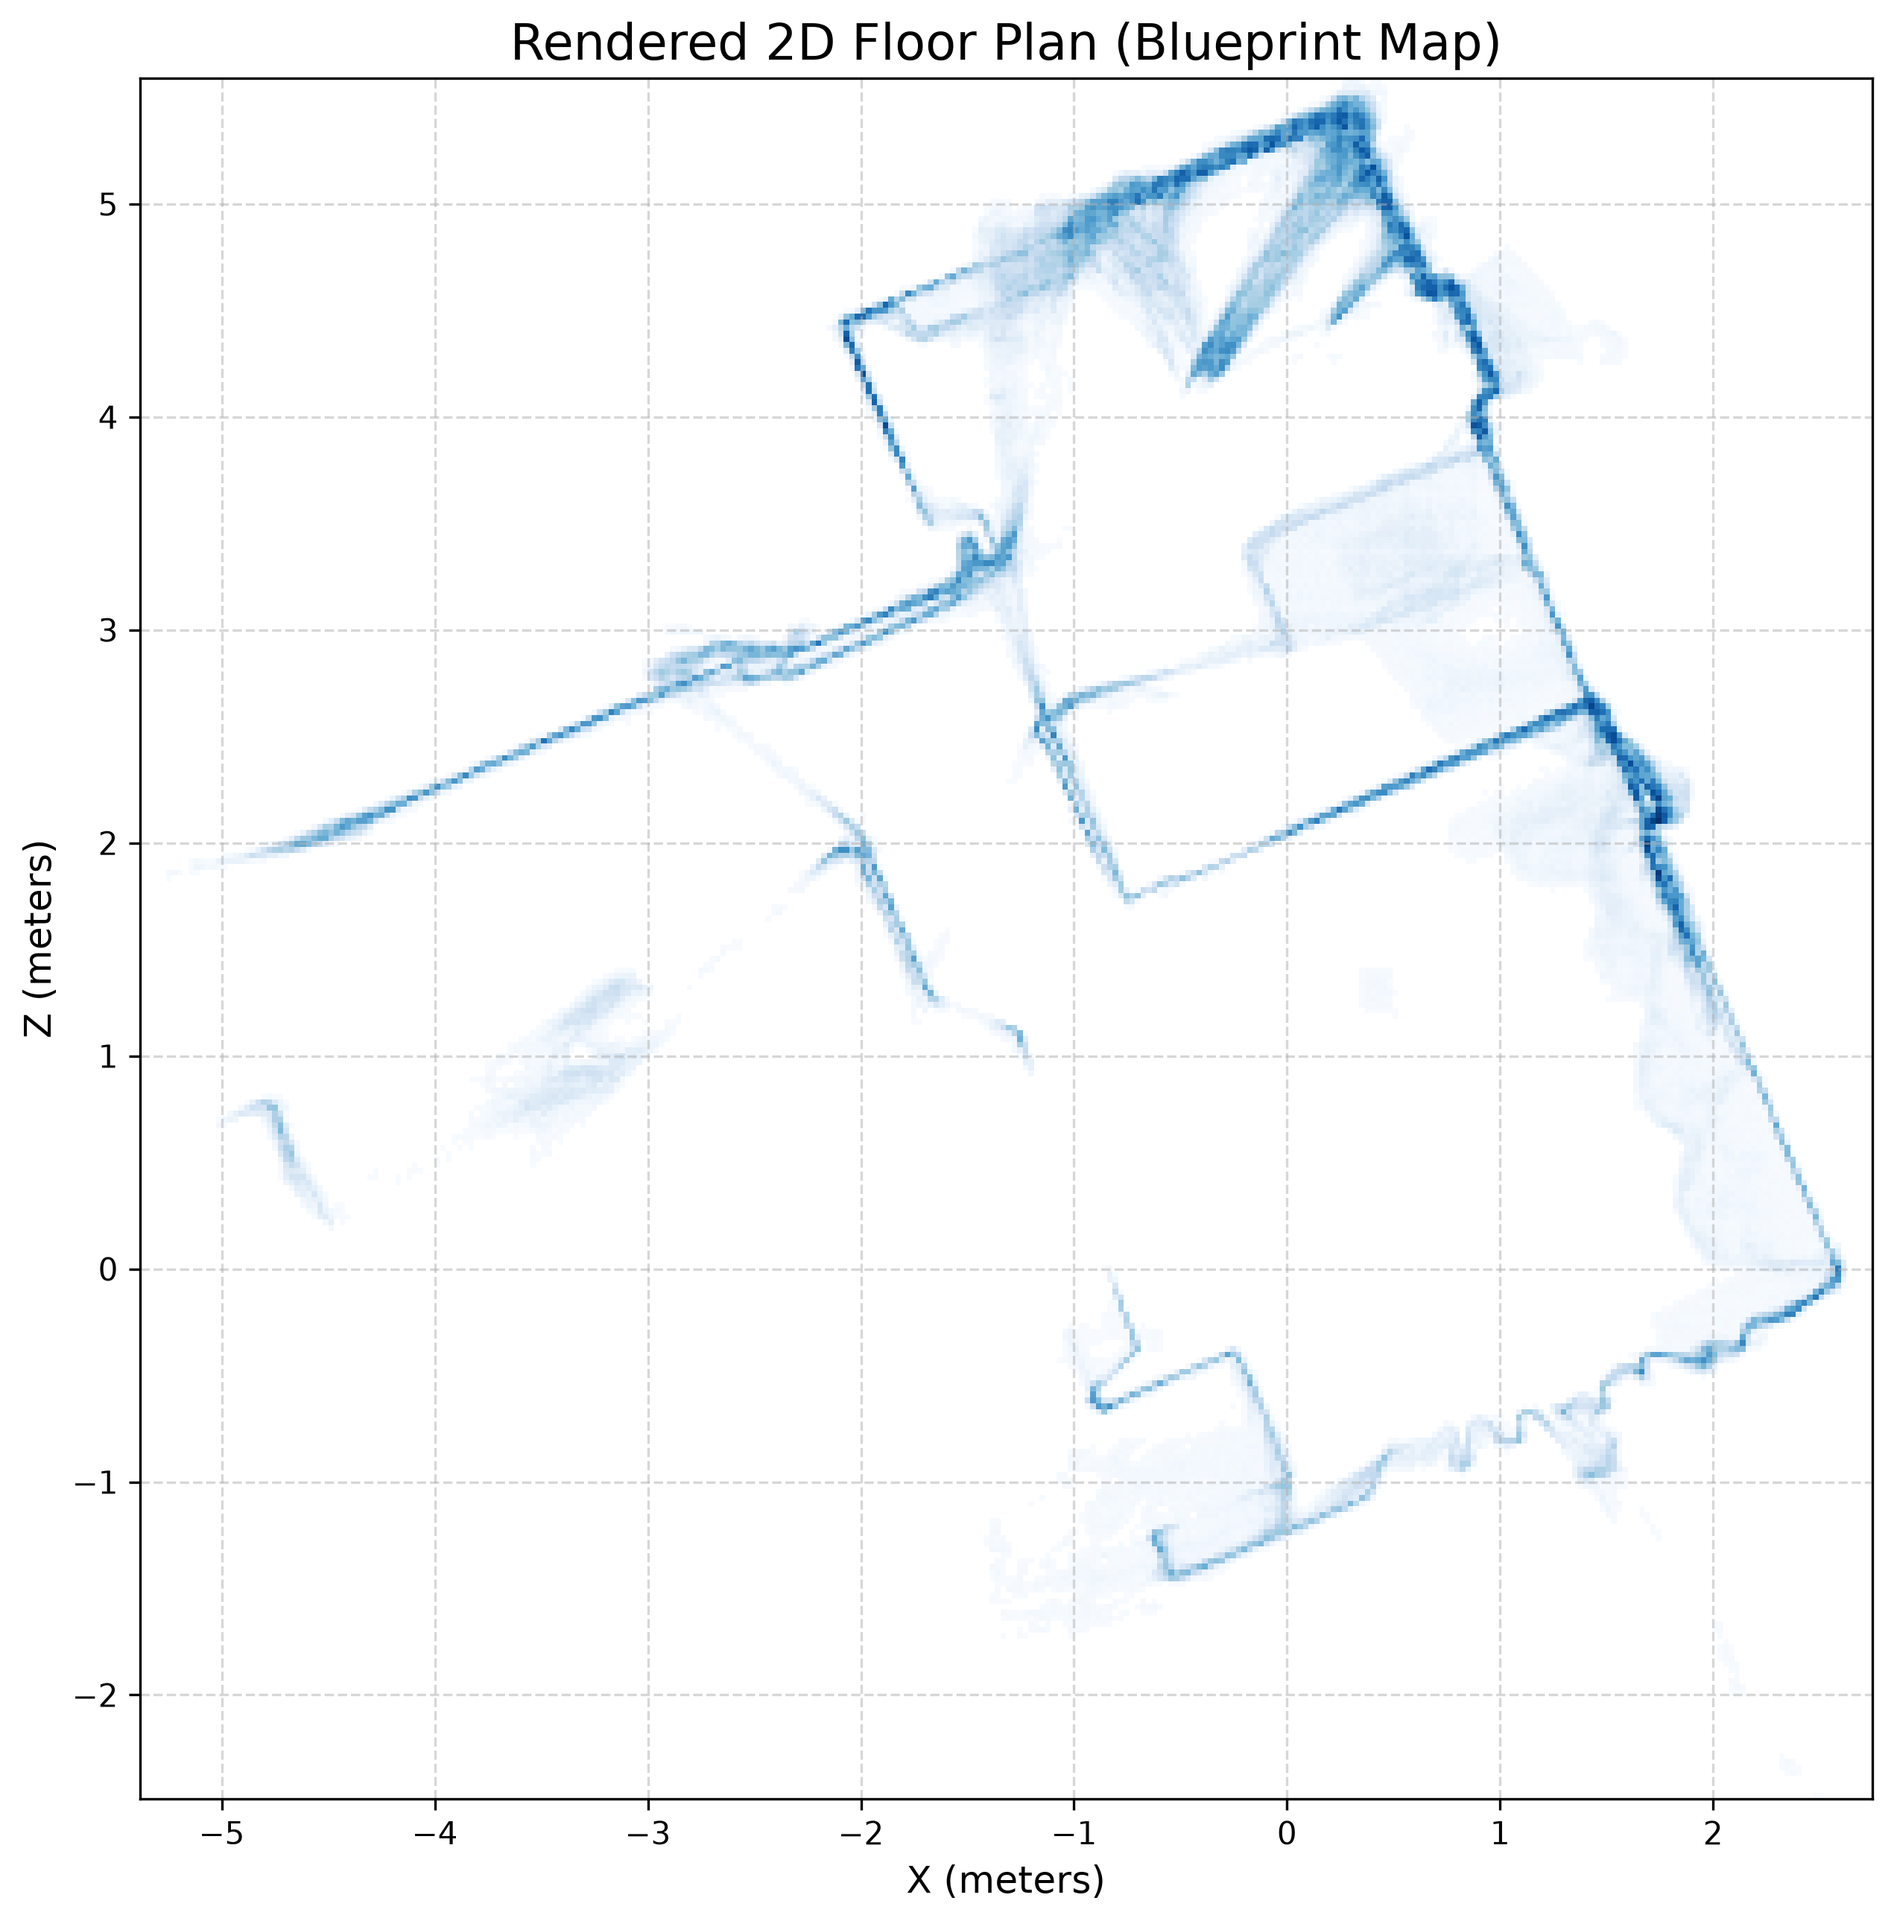
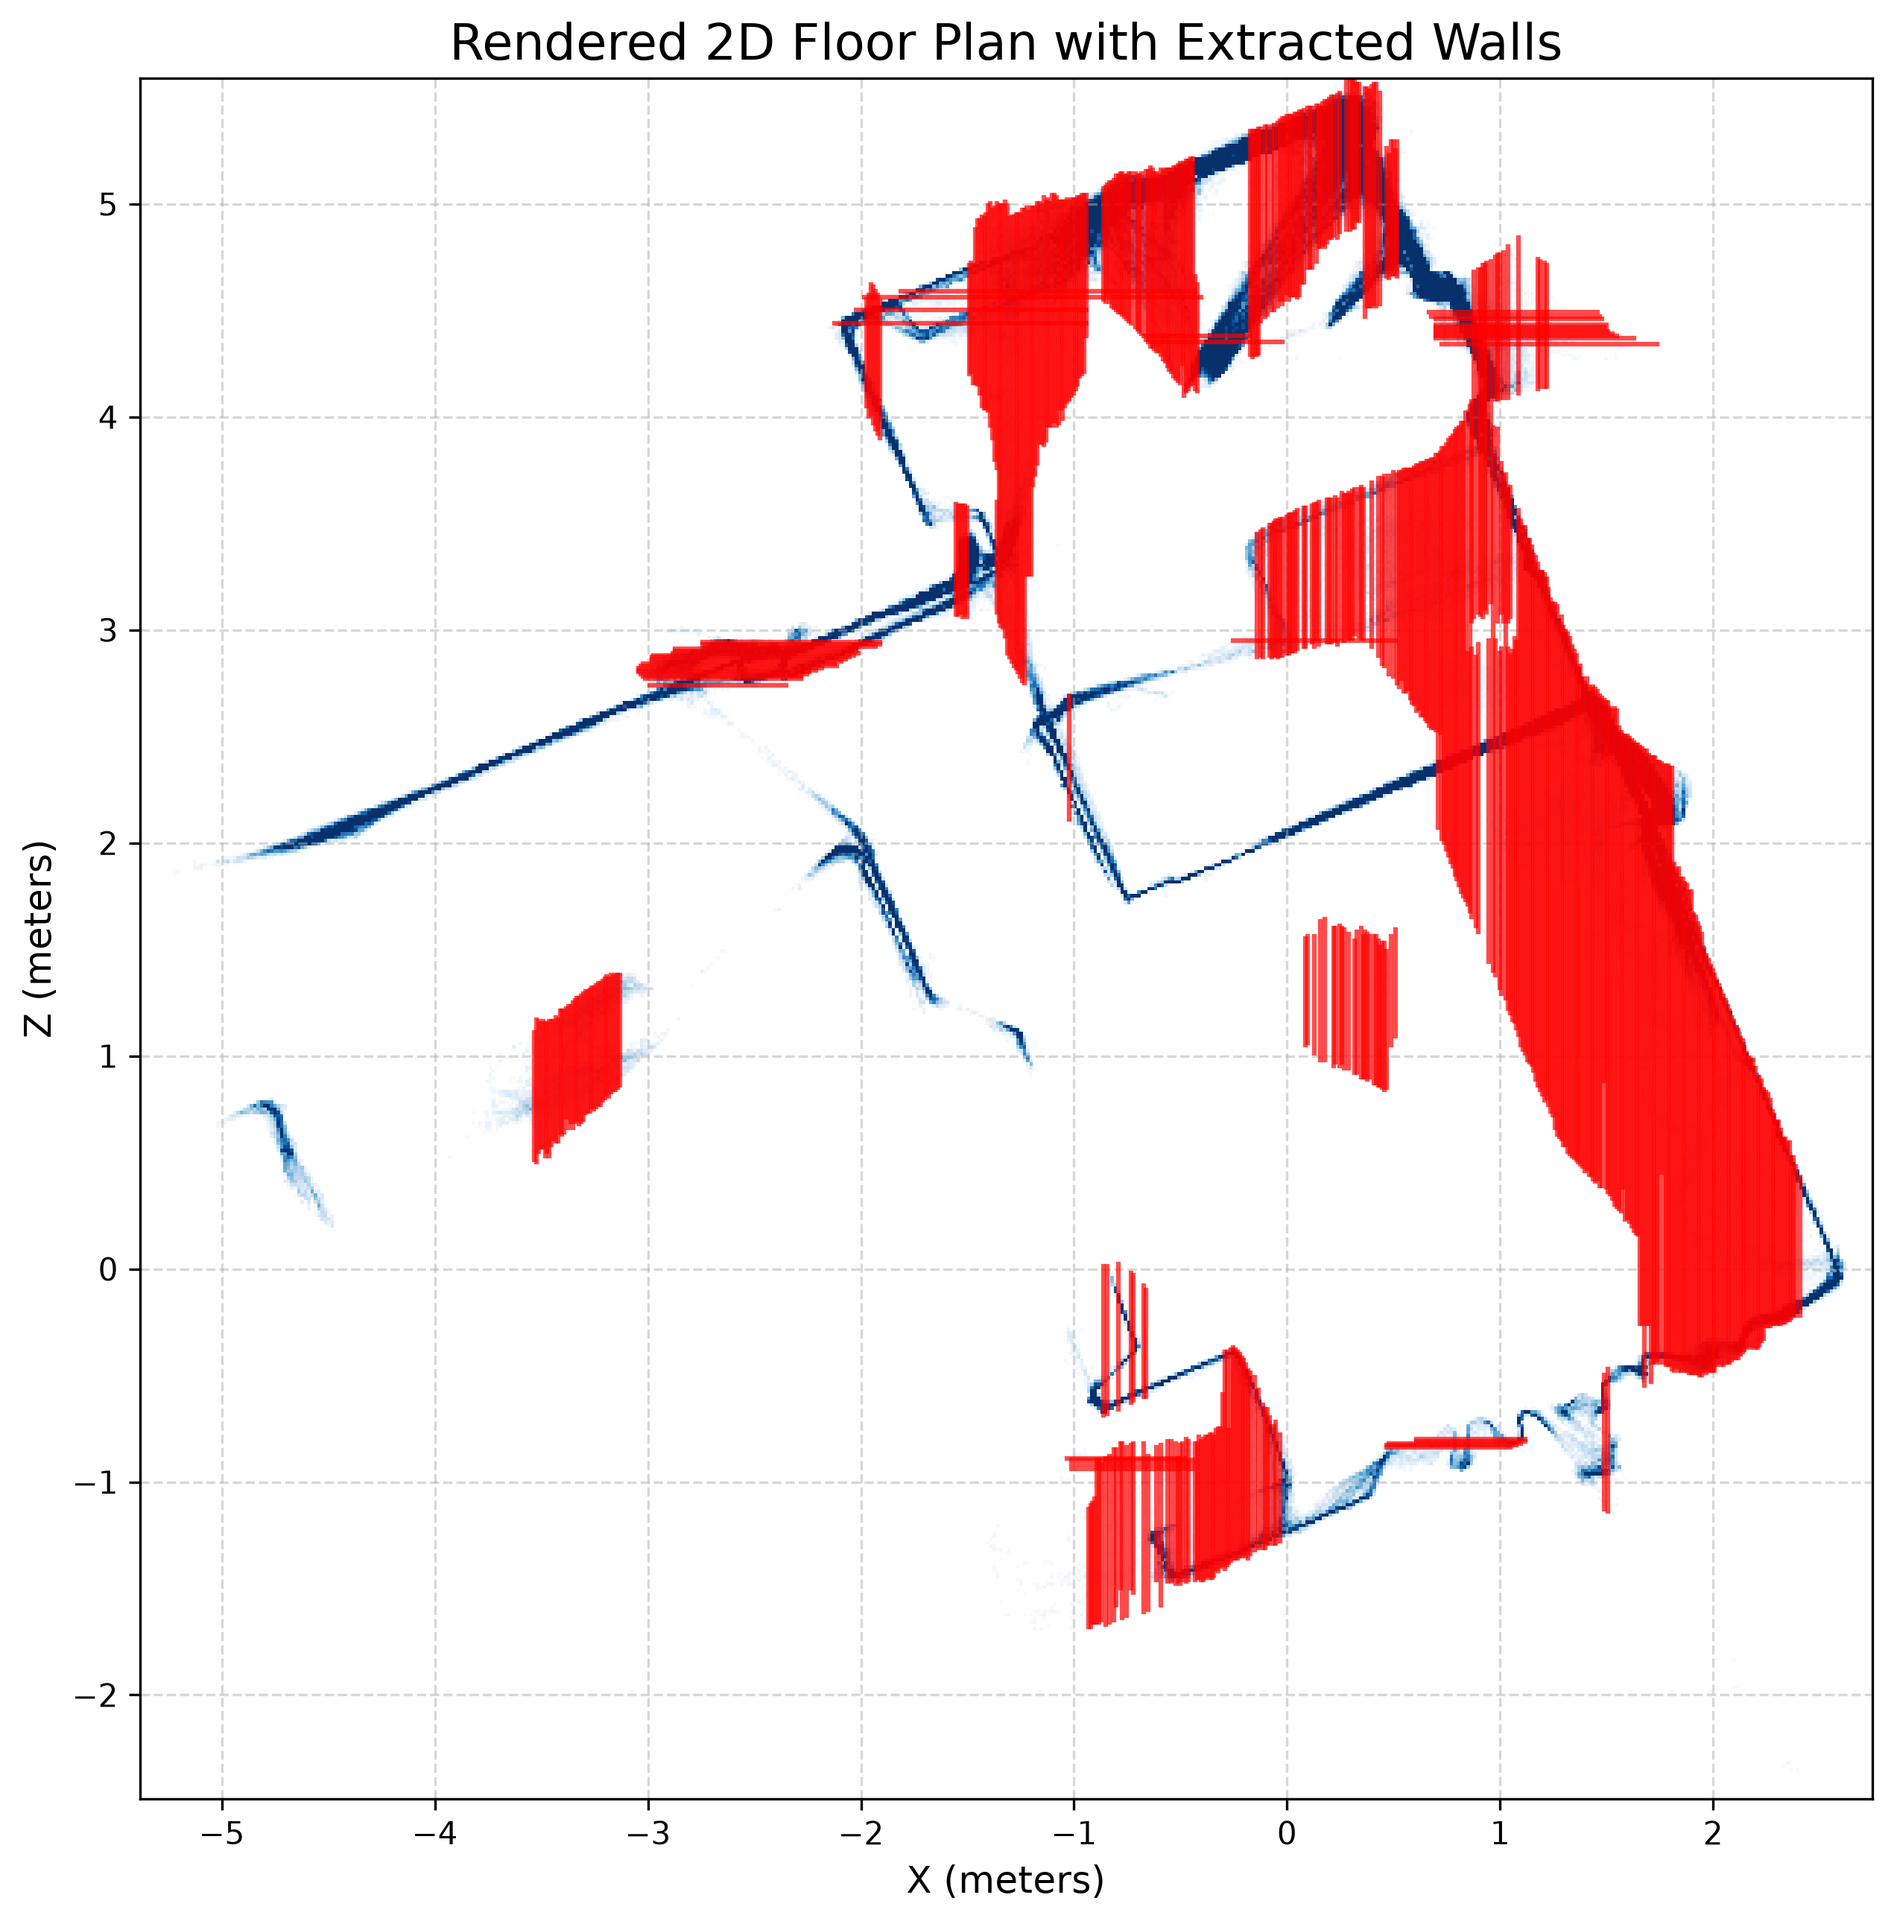
docs: optimize floorplan render with high-res density map and red algorithmic wall overlays

diff --git a/process_ply.py b/process_ply.py
@@ -125,9 +125,14 @@ def main():
         z_vals = sliced_points[:, 2]
         
         # Create a 2D histogram density plot (blueprint style)
-        plt.hist2d(x_vals, z_vals, bins=300, cmap='Blues', cmin=1)
+        # Increased bins for higher resolution, increased cmin to filter out noise/furniture
+        plt.hist2d(x_vals, z_vals, bins=500, cmap='Blues', cmin=3, vmax=50)
         
-        plt.title("Rendered 2D Floor Plan (Blueprint Map)", fontsize=16)
+        # Overlay the mathematically extracted walls to visually prove the algorithm's output
+        for i, (p1, p2) in enumerate(walls):
+            plt.plot([p1[0], p2[0]], [p1[1], p2[1]], color='red', linewidth=1.5, alpha=0.7)
+            
+        plt.title("Rendered 2D Floor Plan with Extracted Walls", fontsize=16)
         plt.xlabel("X (meters)", fontsize=12)
         plt.ylabel("Z (meters)", fontsize=12)
         plt.axis('equal')
